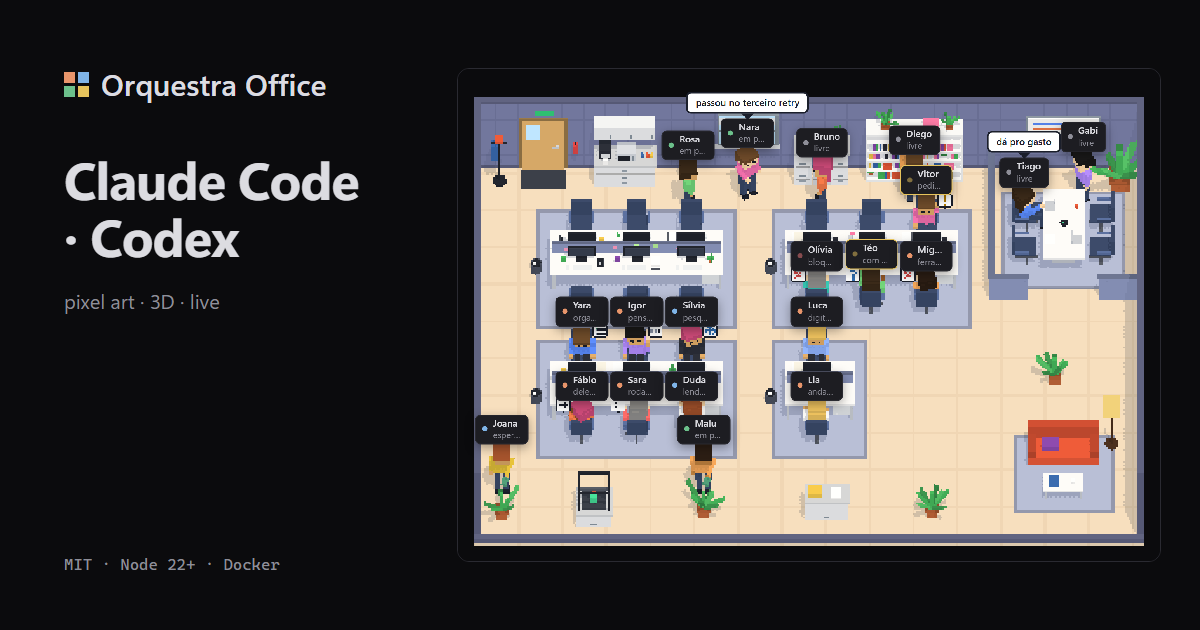
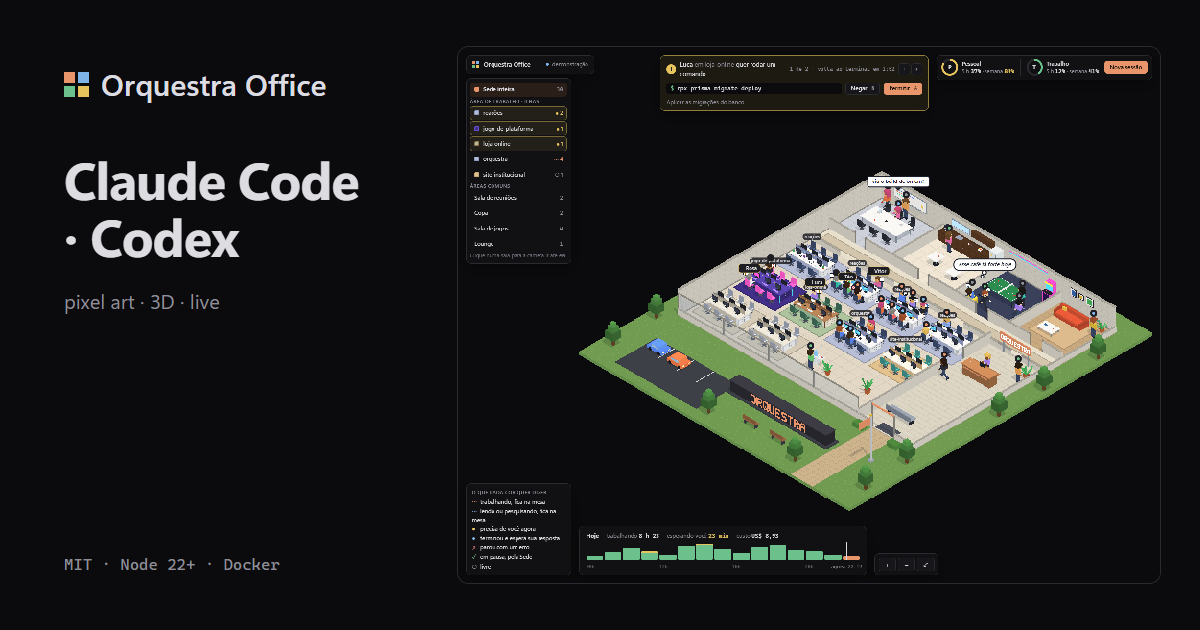
feat(site): landing mostra a Sede na demo e na imagem de compartilhamento
A demo dentro da página abre o escritório novo (vista=sede) e a imagem do Open Graph passa a ser uma captura da Sede.

diff --git a/site/en/index.html b/site/en/index.html
@@ -78,10 +78,10 @@
       <div class="demo-bar">
         <h2 class="demo-label" id="demo-title"><span class="dot" aria-hidden="true"></span>Live demo</h2>
         <span class="demo-hint">Runs in the browser, with sample data. The office interface is in Portuguese for now.</span>
-        <a class="demo-open" href="../demo/?modo=demo">Open full screen</a>
+        <a class="demo-open" href="../demo/?modo=demo&amp;vista=sede">Open full screen</a>
       </div>
       <a class="skip-link" href="#features">Skip the demo</a>
-      <iframe class="demo-view" src="../demo/?modo=demo" title="Office demo with sample data, in Portuguese" loading="lazy"></iframe>
+      <iframe class="demo-view" src="../demo/?modo=demo&amp;vista=sede" title="Office demo with sample data, in Portuguese" loading="lazy"></iframe>
     </div>
     <figcaption class="demo-caption">Click a character to open their sheet with the terminal, the history and the approvals.</figcaption>
   </figure>

diff --git a/site/index.html b/site/index.html
@@ -78,10 +78,10 @@
       <div class="demo-bar">
         <h2 class="demo-label" id="demo-title"><span class="dot" aria-hidden="true"></span>Demo ao vivo</h2>
         <span class="demo-hint">Roda no navegador, com dados de exemplo</span>
-        <a class="demo-open" href="demo/?modo=demo">Abrir em tela cheia</a>
+        <a class="demo-open" href="demo/?modo=demo&amp;vista=sede">Abrir em tela cheia</a>
       </div>
       <a class="skip-link" href="#recursos">Pular a demo</a>
-      <iframe class="demo-view" src="demo/?modo=demo" title="Demonstração do escritório com dados de exemplo" loading="lazy"></iframe>
+      <iframe class="demo-view" src="demo/?modo=demo&amp;vista=sede" title="Demonstração do escritório com dados de exemplo" loading="lazy"></iframe>
     </div>
     <figcaption class="demo-caption">Clique num personagem para abrir a ficha com o terminal, o histórico e as aprovações.</figcaption>
   </figure>
